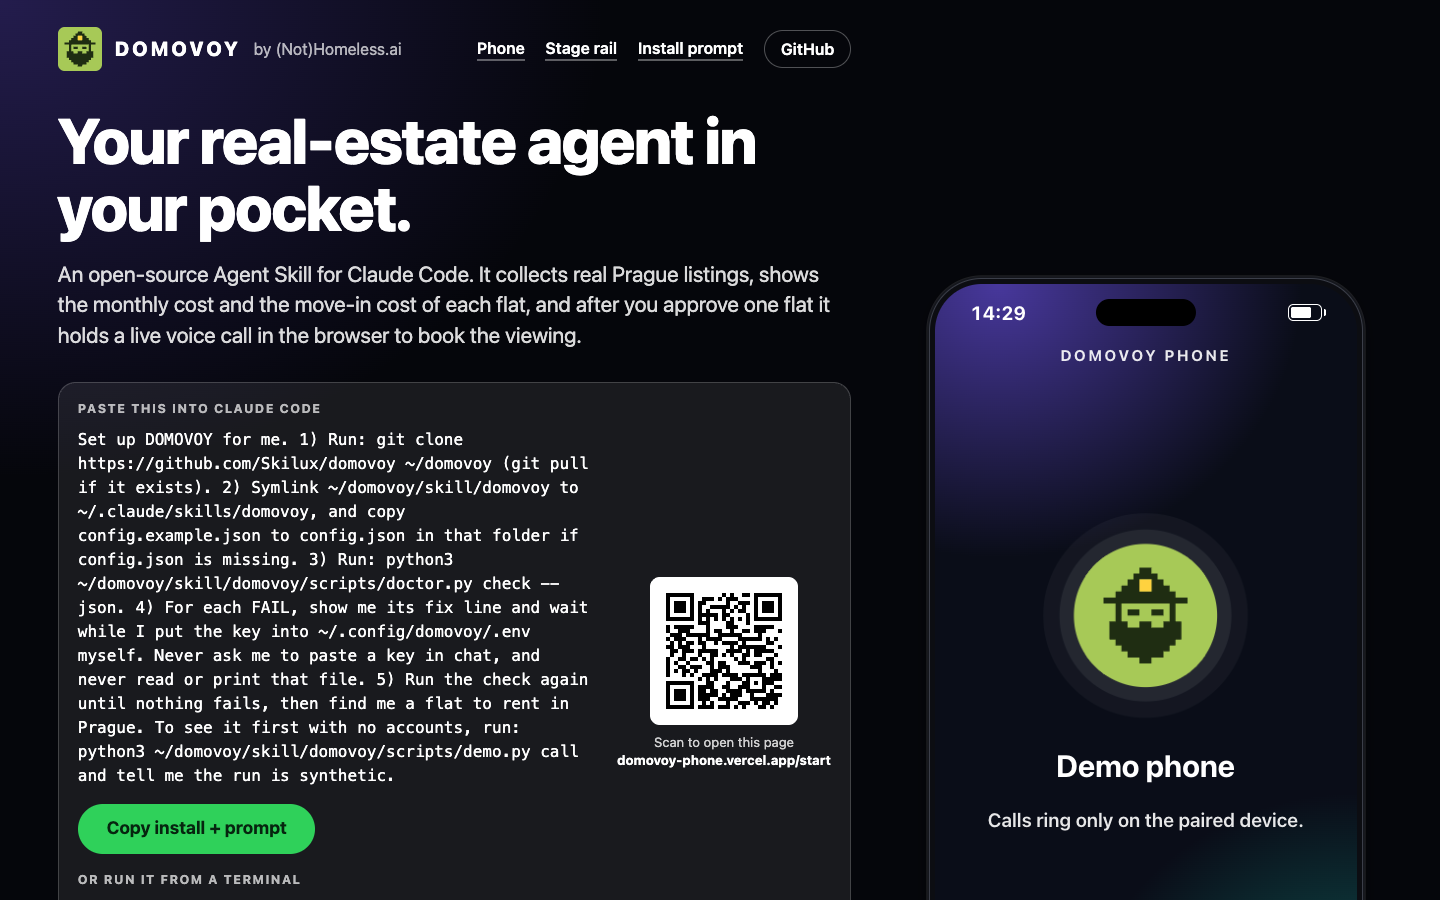
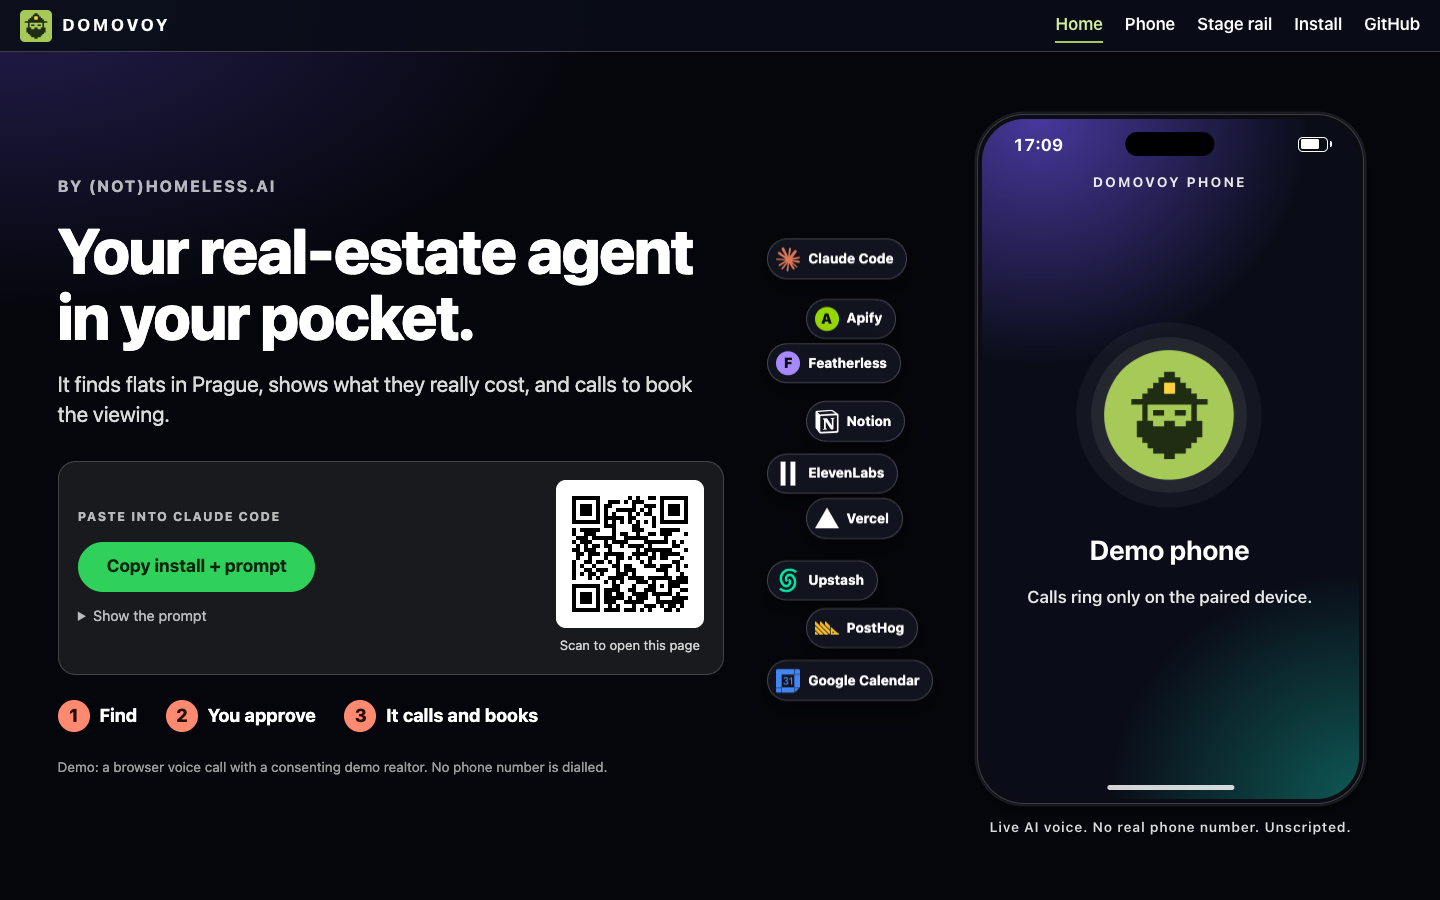
docs: README hero GIF and start screenshot from the redesigned pages, QA checklist row (#142)
Claude-Session: 371c8394-eeb4-4755-8041-a80888cea9c0

diff --git a/README.md b/README.md
@@ -26,9 +26,9 @@ shows what each flat really costs, and holds a live voice call to book the viewi
 
 ### [Live page](https://domovoy-phone.vercel.app/start) · [Quick start](#quick-start) · [Docs](docs/README.md) · [Demo plan](docs/demo.md) · [Costs](#costs)
 
-<a href="https://domovoy-phone.vercel.app/stage"><img src="docs/img/demo-stage.gif" alt="A 27 second walk through the DOMOVOY flow on the stage page: find, approve, call, book, learn" width="820"></a>
+<a href="https://domovoy-phone.vercel.app/stage"><img src="docs/img/demo-stage.gif" alt="A 30 second walk through the 9 DOMOVOY stage slides: the problem, the product, how it works, how it learns, and where to get it" width="820"></a>
 
-<sub>Screen recording of the public <a href="https://domovoy-phone.vercel.app/stage">stage page</a>, 13 Nov 2026. Synthetic flat, sample data, simulated call states. The panels are labelled stand-ins, not a recording of a live call.</sub>
+<sub>Screen recording of the public <a href="https://domovoy-phone.vercel.app/stage">stage page</a>, 13 Nov 2026: the 9 slides of the pitch. It shows no call and no flat data.</sub>
 
 </div>
 
@@ -136,7 +136,7 @@ flowchart TD
 The two halves meet at two JSON contracts, [`call_context`](docs/plan.md#contracts) and [`submit_call_result`](docs/plan.md#contracts). The Notion `Status` property is the only workflow state.
 
 <div align="center">
-<a href="https://domovoy-phone.vercel.app/start"><img src="docs/img/start.png" alt="The DOMOVOY start page: the pitch, the install prompt with a QR code, and the demo phone" width="820"></a>
+<a href="https://domovoy-phone.vercel.app/start"><img src="docs/img/start.png" alt="The DOMOVOY start page: the pitch, the button that copies the install prompt, a QR code, the services it uses, and the demo phone" width="820"></a>
 
 <sub>The public start page, <a href="https://domovoy-phone.vercel.app/start">domovoy-phone.vercel.app/start</a>. Screenshot taken 13 Nov 2026.</sub>
 

diff --git a/docs/qa-checklist.md b/docs/qa-checklist.md
@@ -87,7 +87,7 @@ Run these from the repo root. `<C>` is the path of `skill/domovoy/config.json`.
 | --- | --- | --- | --- |
 | - [ ] | Danila | Scan the QR code in the README with a phone | It opens `https://domovoy-phone.vercel.app/start` |
 | - [ ] | Danila | Open `/start` in a private window | The page loads, the install prompt copies, no key in the page or the address bar |
-| - [ ] | Both | Open `https://domovoy-phone.vercel.app/stage?full=1` on the projector, press Right arrow through all states | Readable from the back row. Sample data is labelled as sample |
+| - [ ] | Both | Open `https://domovoy-phone.vercel.app/stage` on the projector, press Right arrow through all 9 slides (digit keys 1 to 9 jump to a slide) | Readable from the back row. The counter runs from 1/9 to 9/9. The slides show no flat data and no key |
 | - [ ] | Danila | Open the GitHub repo page | The mermaid diagram, the GIF and all badges render. No broken image |
 | - [ ] | Danila | From `phone/`: the route check in [phone/README.md](../phone/README.md) | `/phone`, `/start`, `/stage` and `/prompt.txt` answer 200, `/` answers 307, and `/api/pending` without the key answers 401 (seen 13 Nov 2026) |
 
